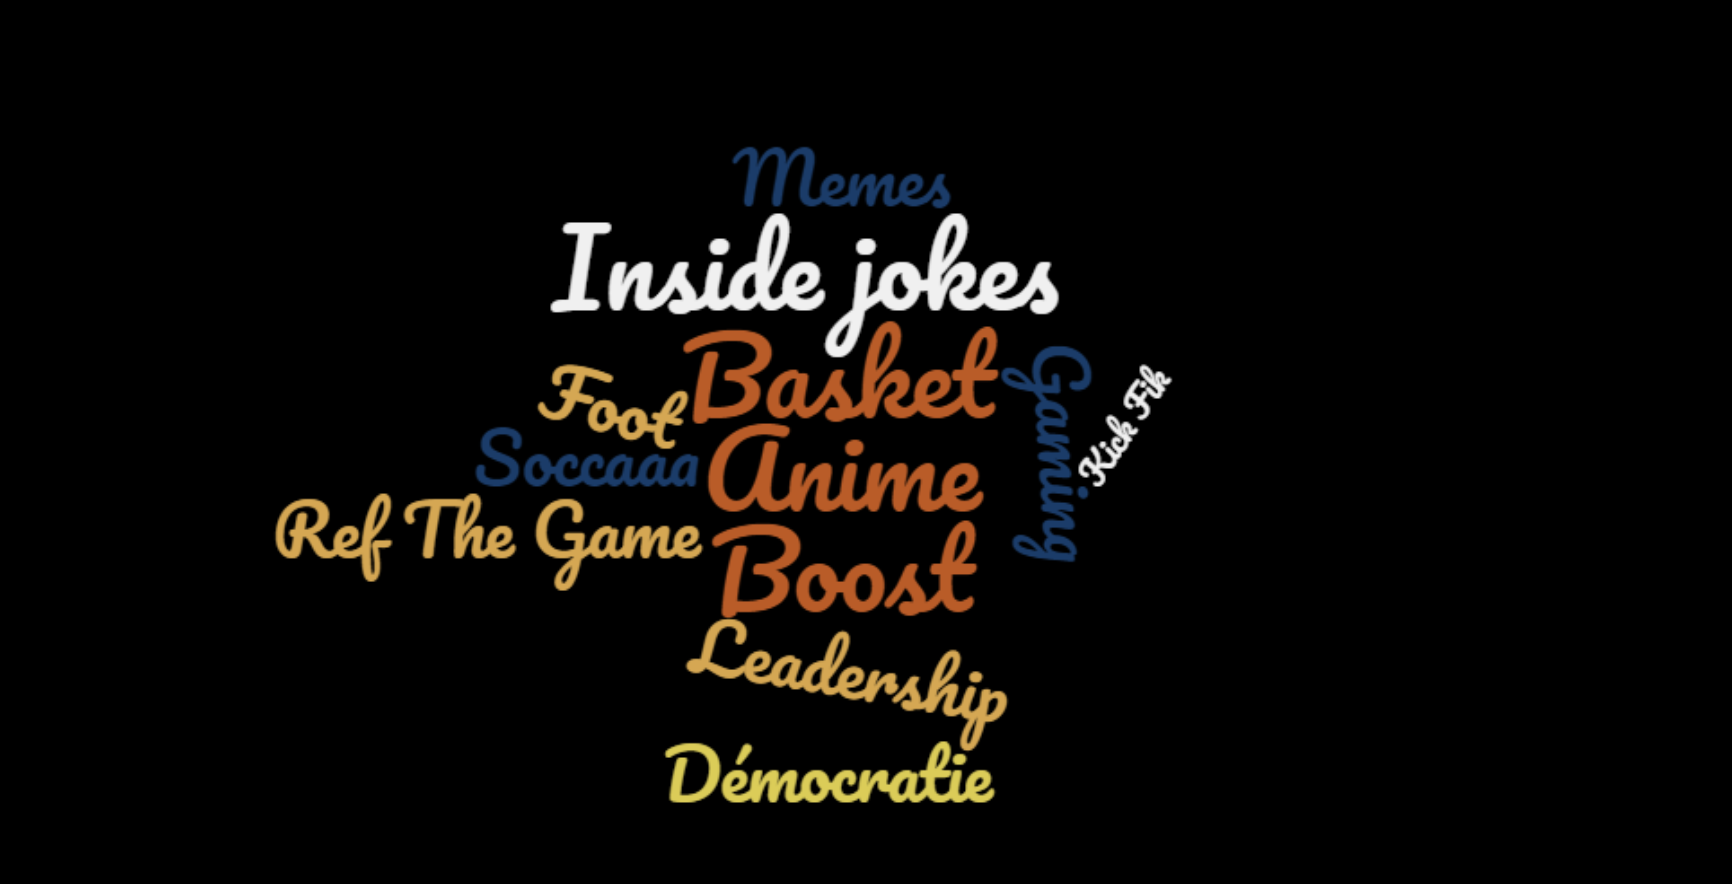
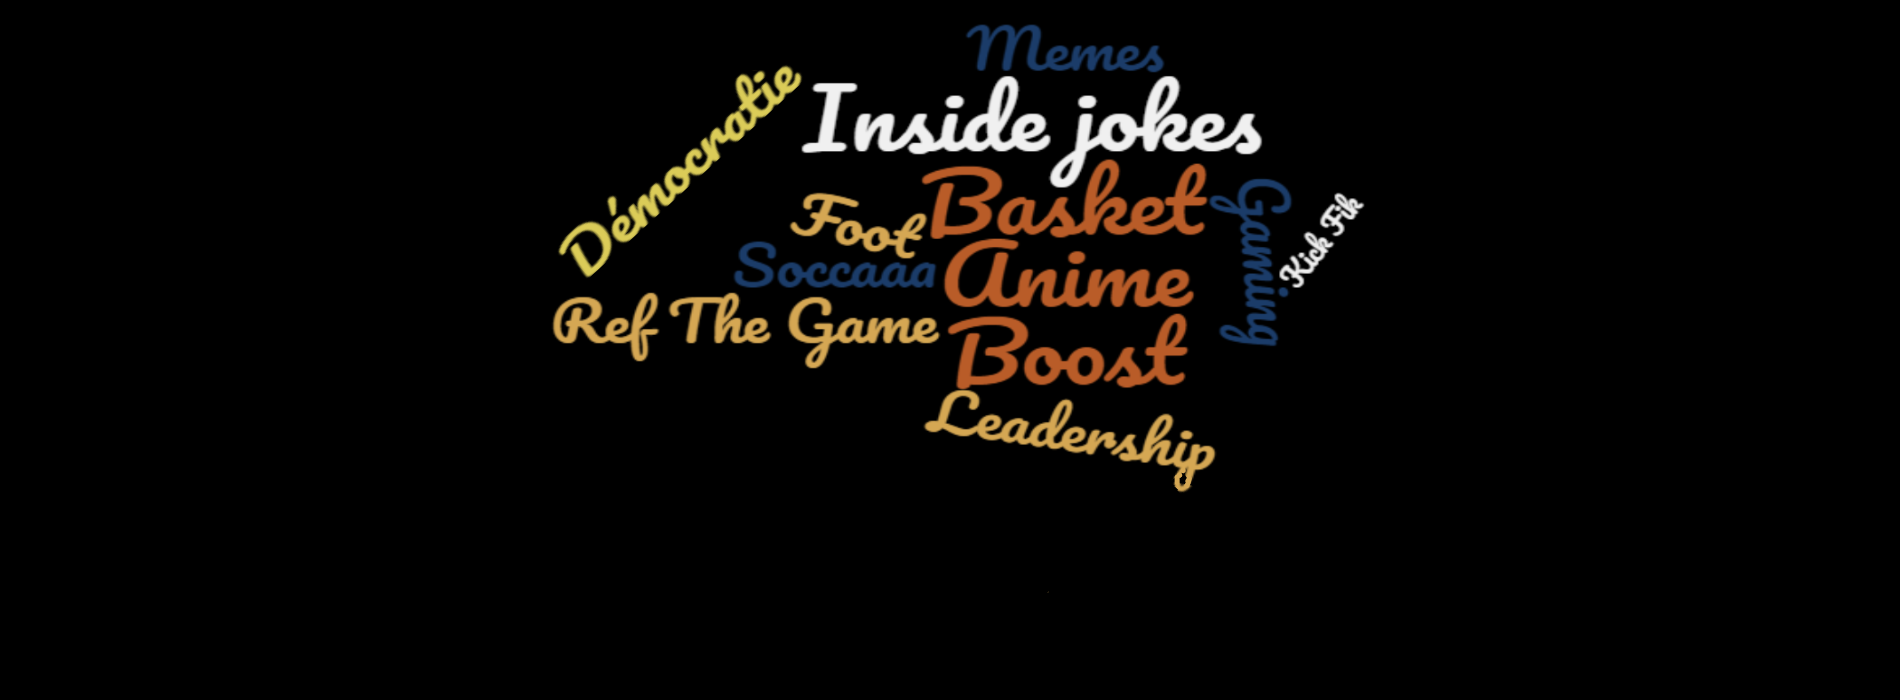
WIP

Changed region(s): [[0.1559, 0.03, 0.7171, 0.93]]

diff --git a/index.html b/index.html
@@ -25,6 +25,7 @@
                 <li data-target="#carouselExampleCaptions" data-slide-to="0" class="active"></li>
                 <li data-target="#carouselExampleCaptions" data-slide-to="1"></li>
                 <li data-target="#carouselExampleCaptions" data-slide-to="2"></li>
+                <li data-target="#carouselExampleCaptions" data-slide-to="3"></li>
             </ol>
             <div class="carousel-inner">
                 <div class="carousel-item active">
@@ -34,16 +35,21 @@
                     </div>
                 </div>
                 <div class="carousel-item">
-                    <img src="/faq.png" class="d-block w-100" alt="...">
+                    <img src="/team.png" class="d-block w-100" alt="...">
                     <div class="carousel-caption d-none d-md-block">
-                        <h5><a href="#about">Questions fréquentes</a></h5>
+                        <h5><a href="#team">Mon équipe</a></h5>
                     </div>
                 </div>
                 <div class="carousel-item">
-                    <img src="/placeHolder.png" class="d-block w-100" alt="...">
+                    <img src="/platforme.PNG" class="d-block w-100" alt="...">
                     <div class="carousel-caption d-none d-md-block">
-                        <h5>Third slide label</h5>
-                        <p>Praesent commodo cursus magna, vel scelerisque nisl consectetur.</p>
+                        <h5><a href="#platform">Ma plateforme</a></h5>
+                    </div>
+                </div>
+                <div class="carousel-item">
+                    <img src="/faq.png" class="d-block w-100" alt="...">
+                    <div class="carousel-caption d-none d-md-block">
+                        <h5><a href="#faq">Questions fréquentes</a></h5>
                     </div>
                 </div>
             </div>
@@ -68,6 +74,54 @@
                     Walid, Wehel, Wendel, VValid et, selon la conductrice de bus de secondaire 2, Wali Bounanam. 
                     Pas besoin de jacasser, vous me connaissez. Je vous écrit parce que je pense que je suis le candidat 
                     de choix pour admin de la convo!
+                </div>
+                <div class="col-md-3">
+                    <img src="/walid.jfif" class="img-fluid" alt="Responsive image">
+                </div>
+            </div>
+        </div>
+
+        <hr>
+
+        <div class="container">
+            <div class="row">
+                <h2 id="team">Mon équipe</h2>
+            </div>
+            <div class="row">
+                <div class="col-md-6">
+                    <p>
+                        Je suis incroyablement excité d'annoncer que je compte avoir Ivan ET Tate en tant que VP. Ceci me permet 
+                        d'avoir un système révolutionnaire de double VP présenter dans ma <a href="#platforme">plateforme</a>. 
+                    </p>
+                    
+                </div>
+                <div class="col-md-3">
+                    <img src="/tate.jpg" class="img-fluid" alt="Responsive image">
+                </div>
+                <div class="col-md-3">
+                    <img src="/ivan.jpg" class="img-fluid" alt="Responsive image">
+                </div>
+            </div>
+        </div>
+
+        <hr>
+
+        <div class="container">
+            <div class="row">
+                <h2 id="platform">Ma plateforme</h2>
+            </div>
+            <div class="row">
+                <div class="col-md-9">
+                    <p>
+                        Je suis un homme simple et votre temps est précieux, donc voici le coeur de ma plateforme. 
+                        Mais s'il-vous-plaît, contactez moi pour les détail, il me ferait plaisir de parler avec mon électorat!
+                    </p>
+                    <ul>
+                        <li><b>Système à double VP</b>: Je vous ai entendu. Vous avez peur d'une dictature. Les actions sont meilleures que les mots. Je propose donc mon systèmse révolutionnaire de double VP.  Mon seul réel pouvoir d'admin est l'influence. Ivan et Tate auront la capacité de se combiner pour veto toutes mes décisions. Cependant, en tant qu'admin, je pourrais aussi veto leur décisions. Ce système de double veto directionnel devrait préserver la démocratie dans la convo.</li>
+                        <li><b>Sport</b>: Le sport est au coeur de ma platforme, que ce soit argumenter sur le basket, foot, etc, host le SB quand personne peut ou recruter des gens pour soccaaaaa, je suis votre homme.</li>
+                        <li><b>Anime</b>: Quoique certains membres du groupe sont dans le déni, les anime sont 🔥. Une partie de ma plateforme est de boost.</li>
+                        <li><b>Kick Fik</b>: Soyons sérieux, il me mérite AF des fois. Et quand ce sera le cas, je suis l'homme de la situation.</li>
+                    </ul>
                 </div>
                 <div class="col-md-3">
                     <img src="/walid.jfif" class="img-fluid" alt="Responsive image">
